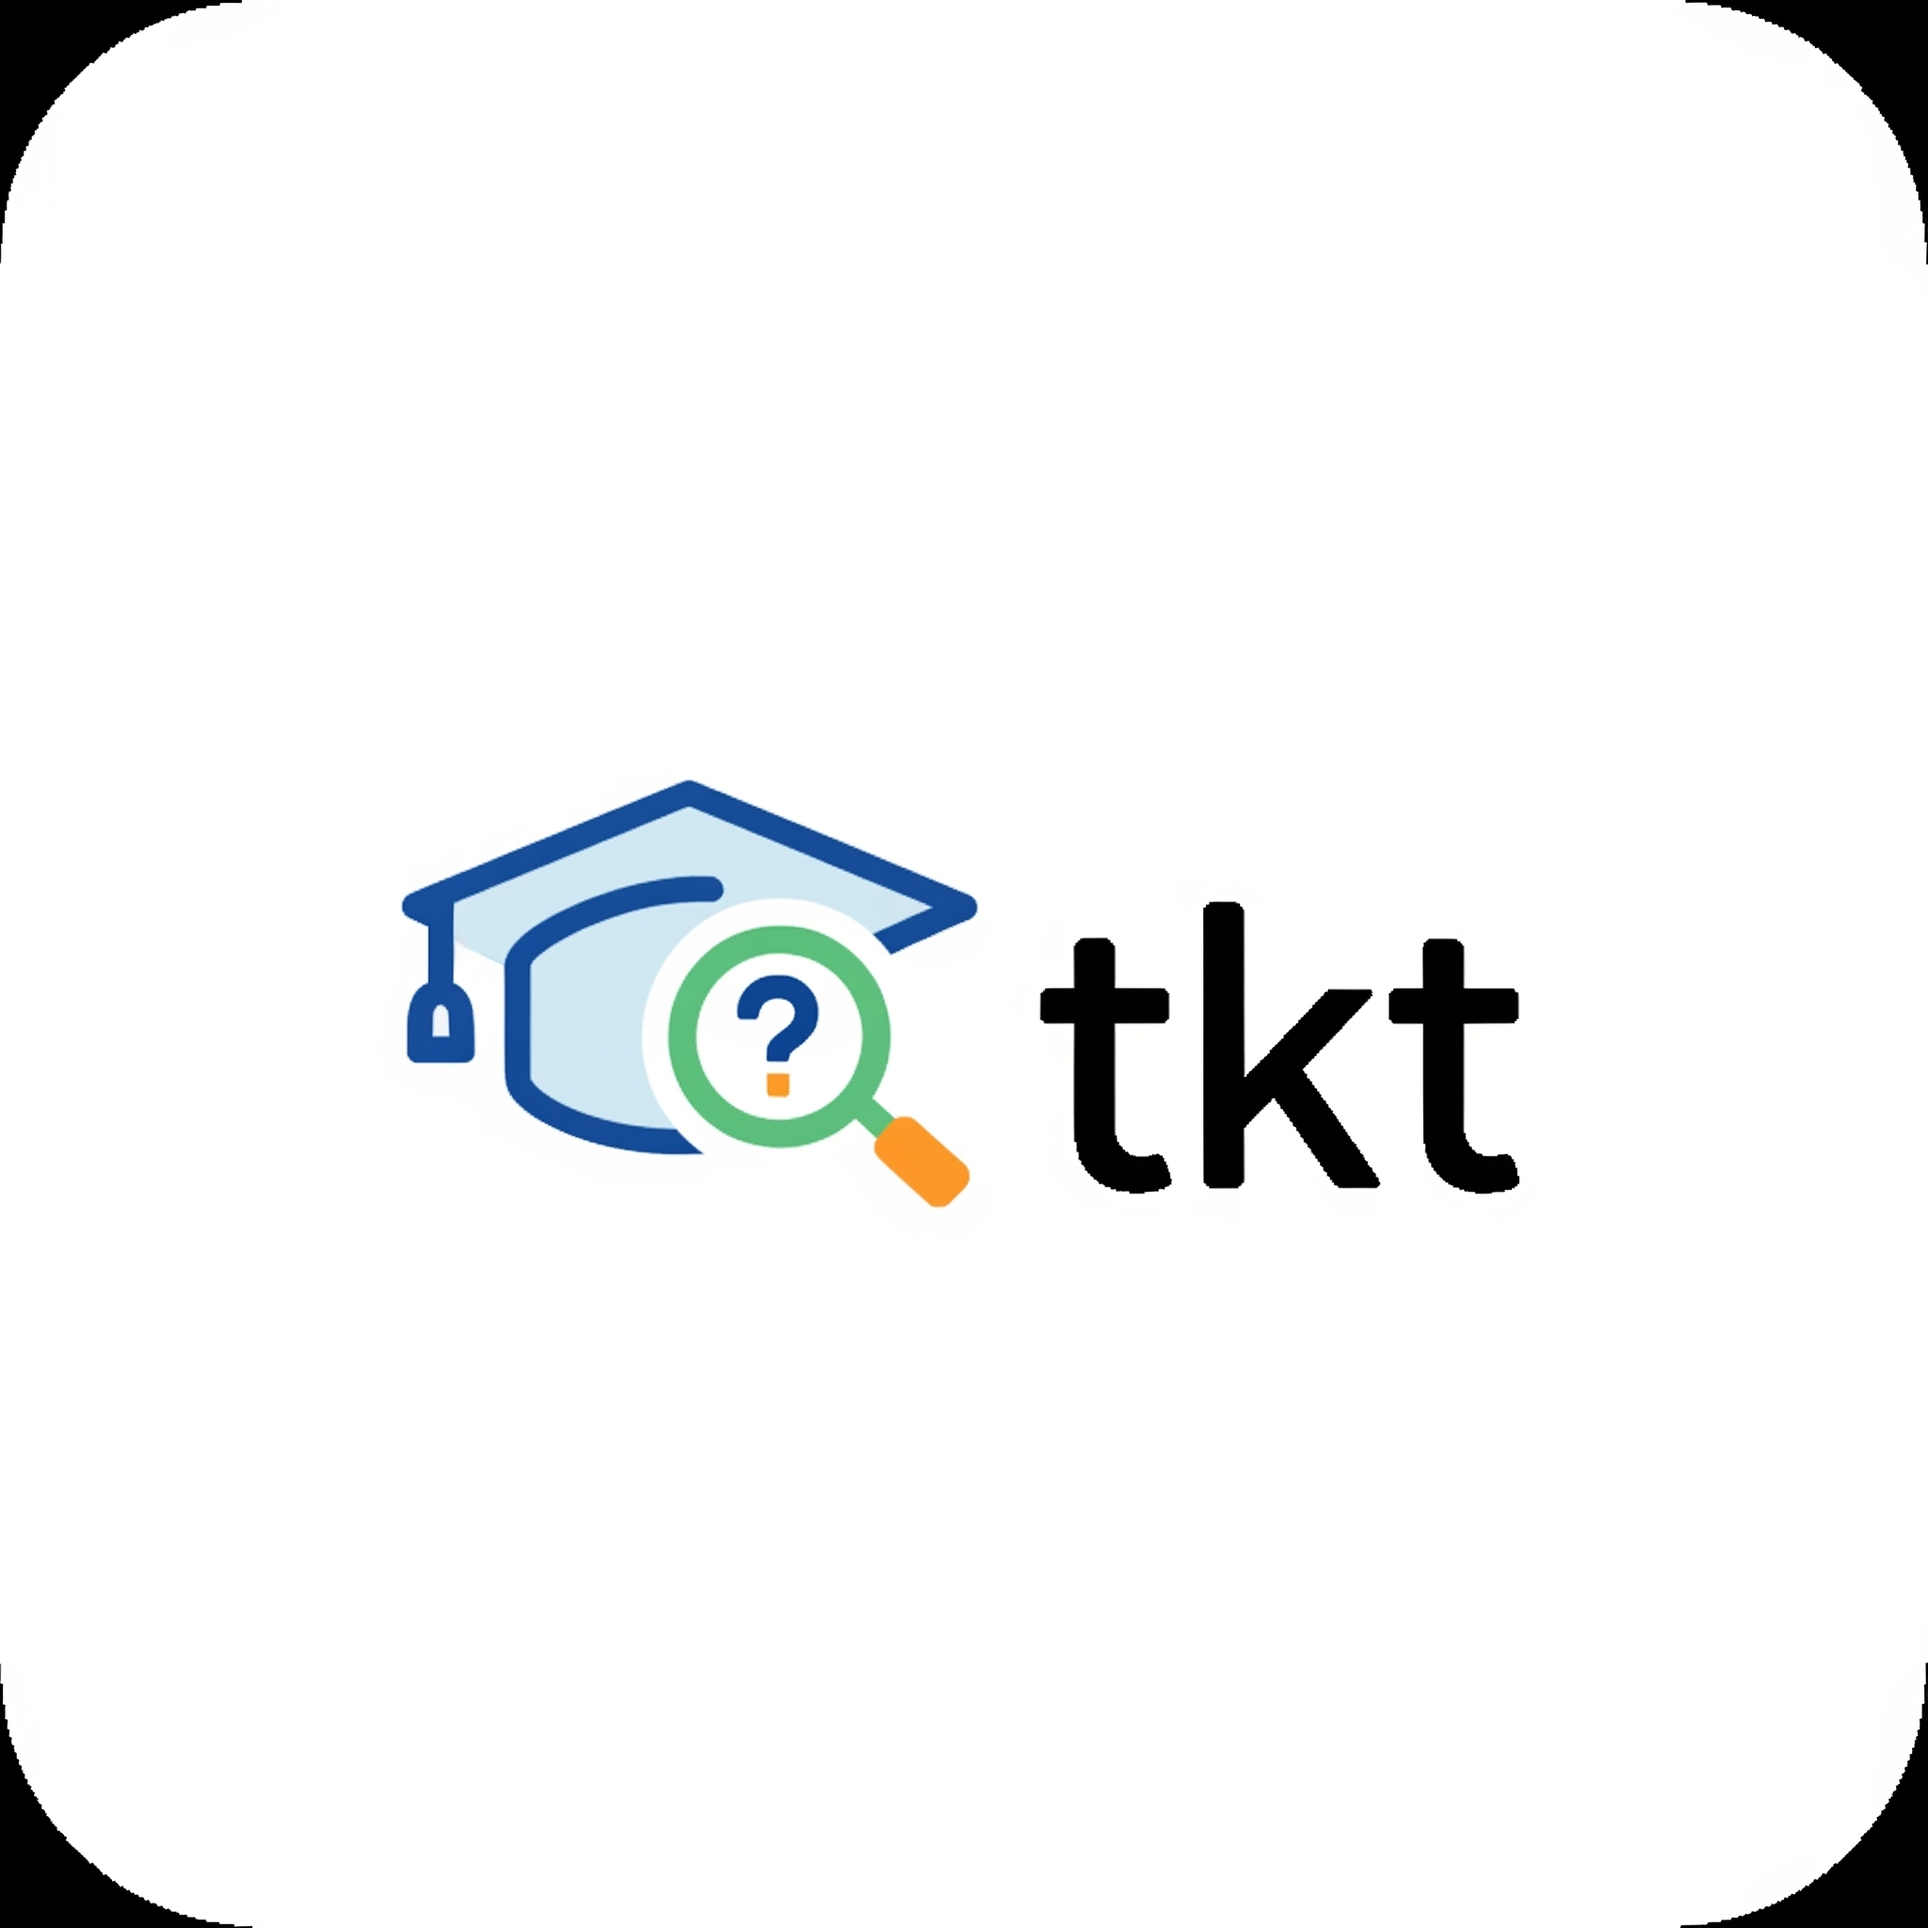
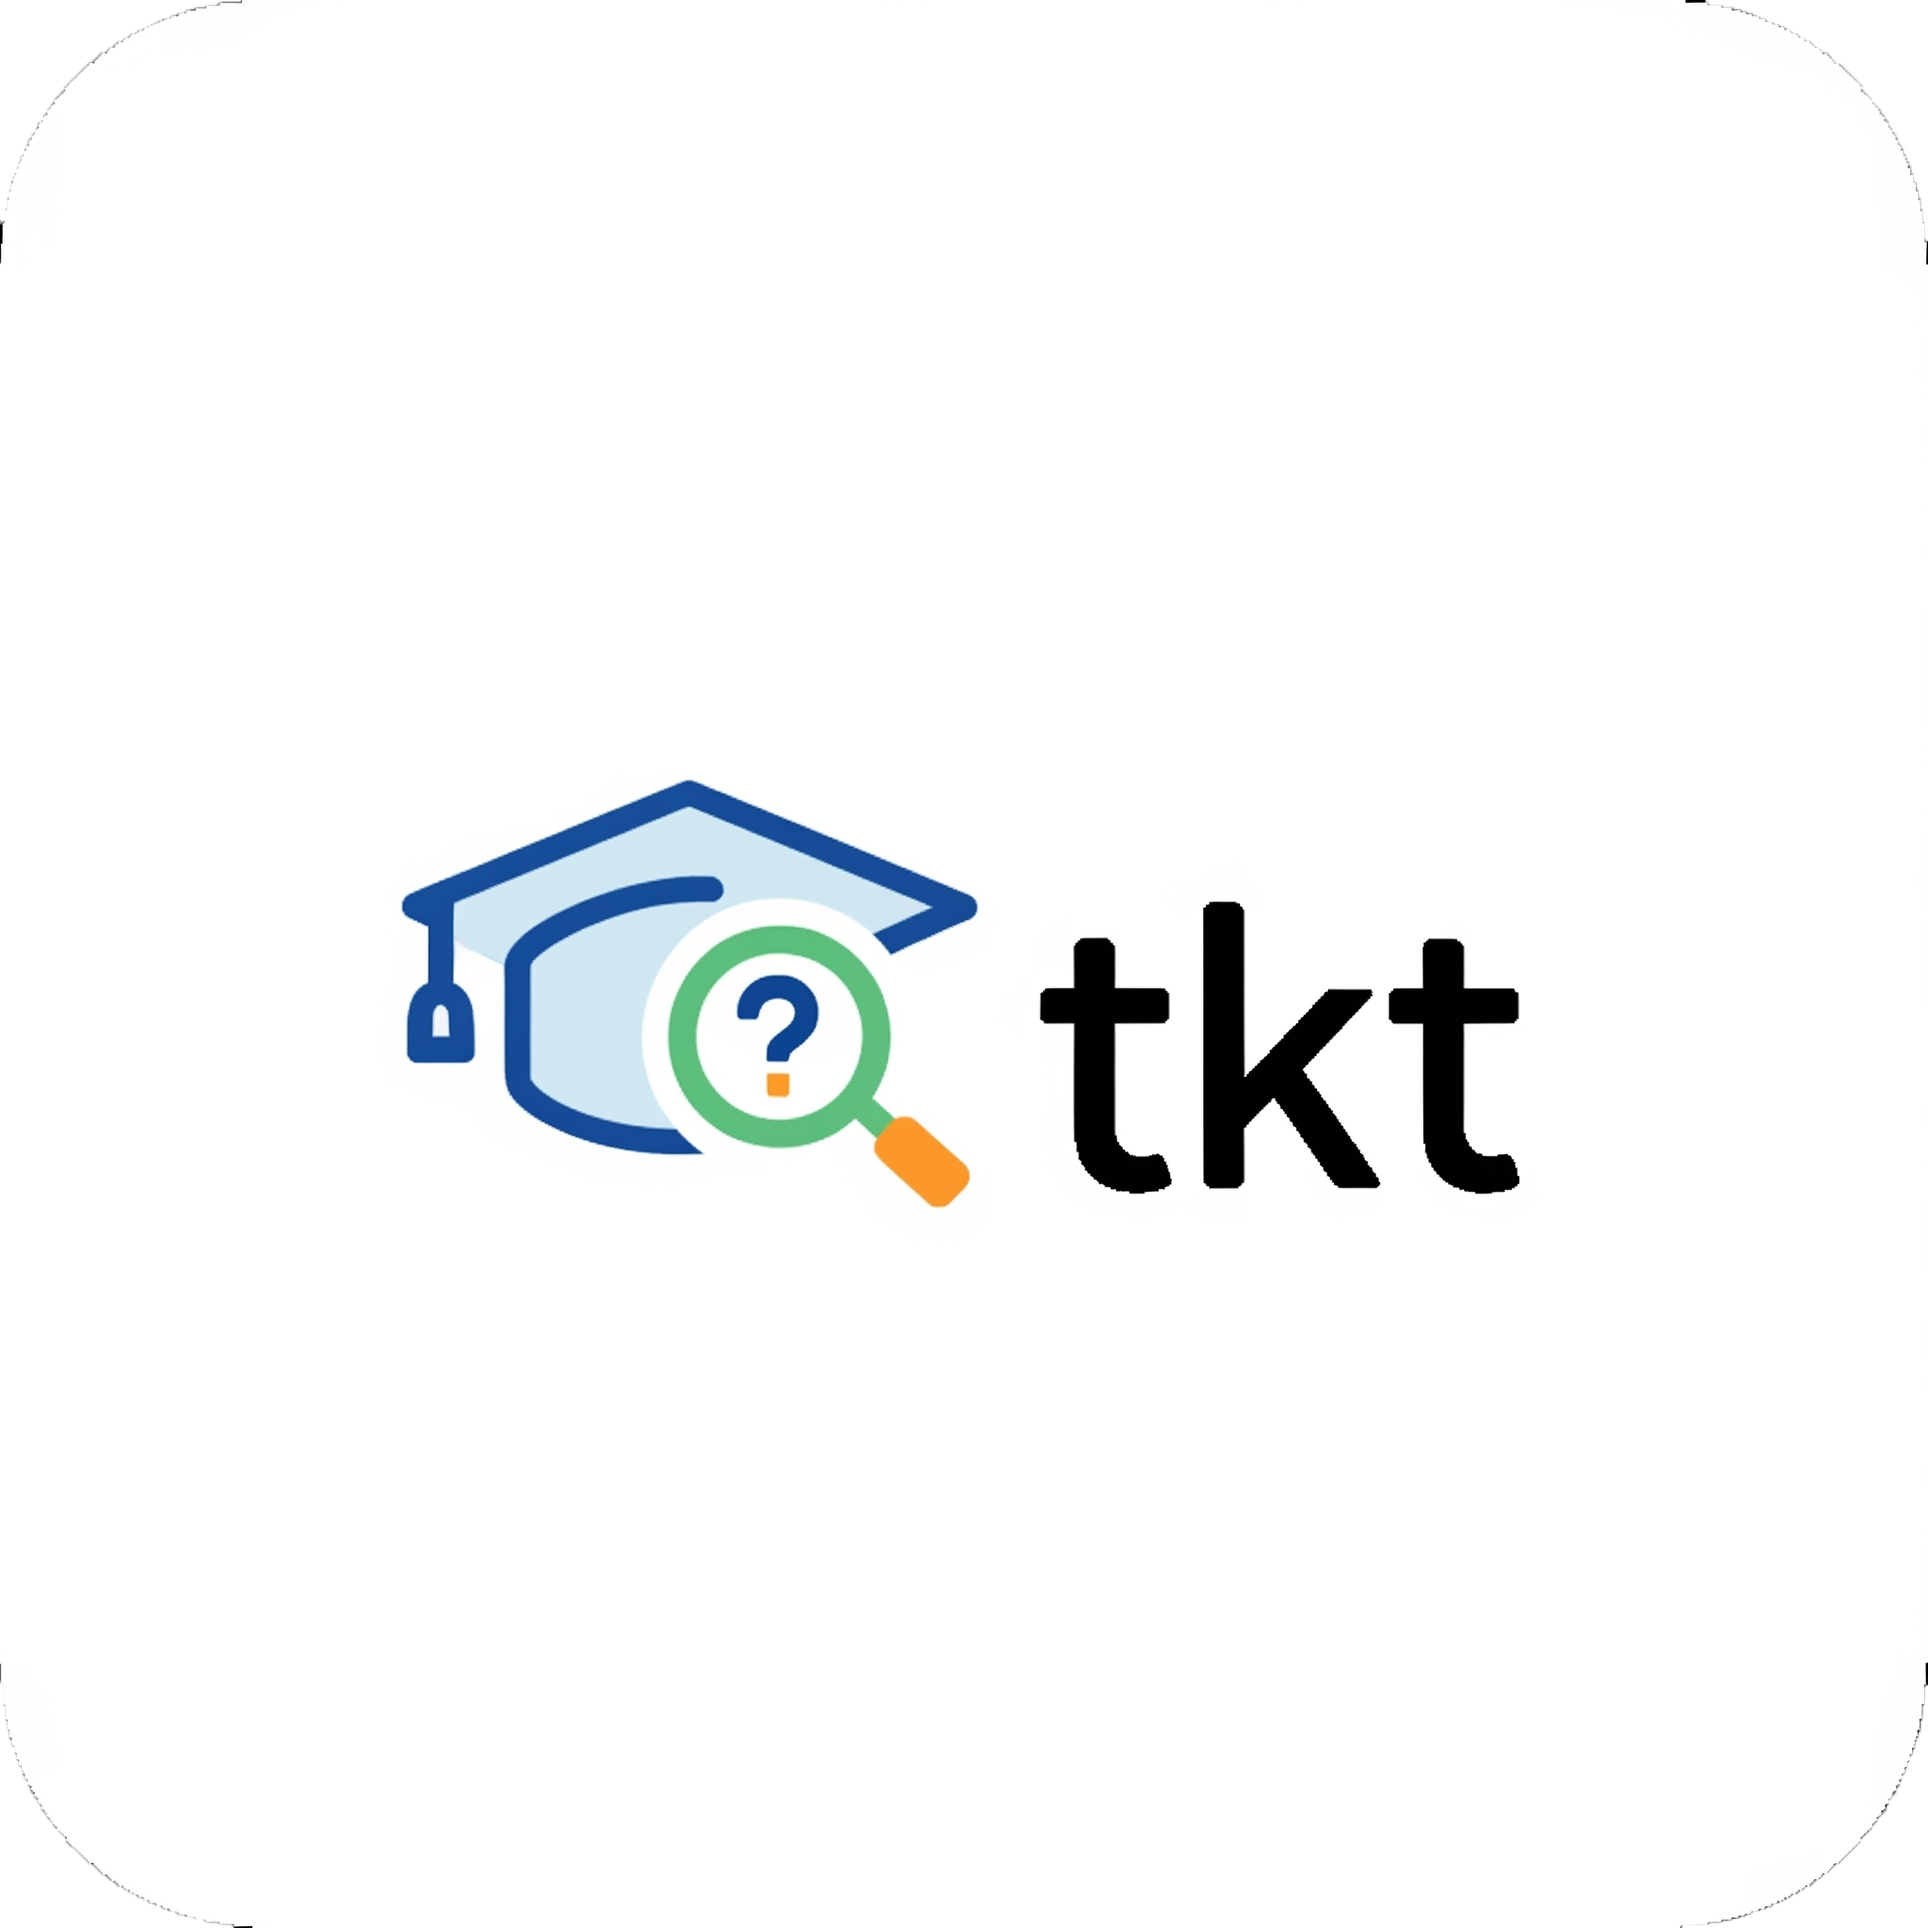
icon調整

diff --git a/lib/main.dart b/lib/main.dart
@@ -108,14 +108,71 @@ class _MyAppState extends State<MyApp> {
             future: Future.delayed(const Duration(seconds: 2)), // 初始化載入時間
             builder: (context, snapshot) {
               if (snapshot.connectionState == ConnectionState.waiting) {
-                return const Scaffold(
+                final theme = Theme.of(context);
+                final colorScheme = theme.colorScheme;
+                
+                return Scaffold(
+                  backgroundColor: colorScheme.background,
                   body: Center(
                     child: Column(
                       mainAxisAlignment: MainAxisAlignment.center,
                       children: [
-                        CircularProgressIndicator(),
-                        SizedBox(height: 16),
-                        Text('系統初始化中...'),
+                        // Logo容器，使用ClipRRect解決黑邊問題
+                        Container(
+                          width: 120,
+                          height: 120,
+                          decoration: BoxDecoration(
+                            borderRadius: BorderRadius.circular(24),
+                            boxShadow: [
+                              BoxShadow(
+                                color: Colors.black.withOpacity(0.1),
+                                blurRadius: 20,
+                                offset: const Offset(0, 8),
+                              ),
+                            ],
+                          ),
+                          child: ClipRRect(
+                            borderRadius: BorderRadius.circular(24),
+                            child: Container(
+                              color: Colors.white,
+                              child: Image.asset(
+                                'assets/images/icon.png',
+                                fit: BoxFit.cover,
+                              ),
+                            ),
+                          ),
+                        ),
+                        const SizedBox(height: 32),
+                        // Loading indicator
+                        SizedBox(
+                          width: 32,
+                          height: 32,
+                          child: CircularProgressIndicator(
+                            strokeWidth: 3,
+                            color: colorScheme.primary,
+                          ),
+                        ),
+                        const SizedBox(height: 24),
+                        // 載入文字
+                        Text(
+                          '系統初始化中...',
+                          style: TextStyle(
+                            fontSize: 16,
+                            fontWeight: FontWeight.w400,
+                            color: colorScheme.onSurfaceVariant,
+                            letterSpacing: 0.5,
+                          ),
+                        ),
+                        const SizedBox(height: 8),
+                        // 副標題
+                        Text(
+                          'TKT 台科大校園助手',
+                          style: TextStyle(
+                            fontSize: 13,
+                            color: colorScheme.onSurfaceVariant.withOpacity(0.7),
+                            letterSpacing: 0.3,
+                          ),
+                        ),
                       ],
                     ),
                   ),
